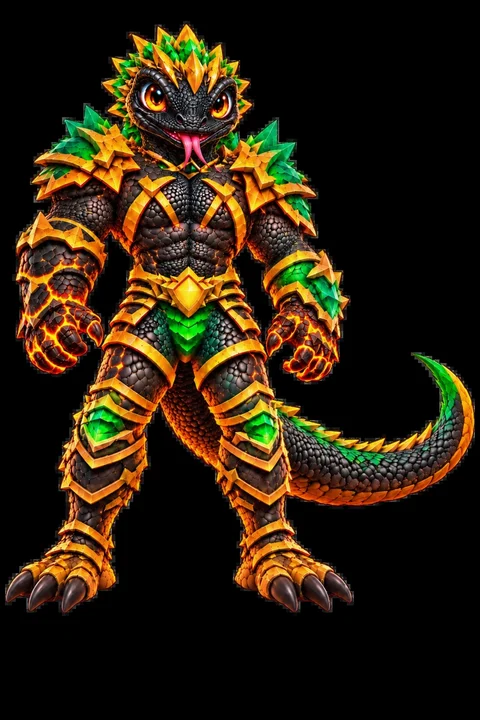
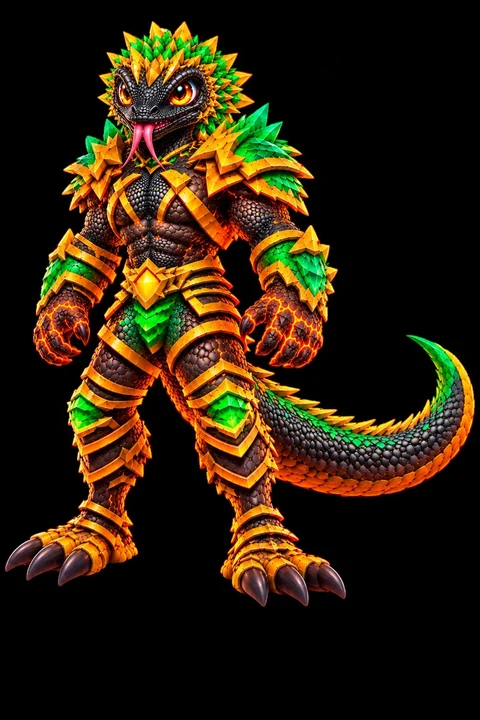
Selección de héroe: los 8 héroes visibles sin desplazamiento en el orden pedido, imágenes nuevas de la galería (Ámbar conserva la suya) y animación sutil de cola, orejas, cabeza y respiración con manos y pies quietos

diff --git a/src/style.css b/src/style.css
@@ -847,25 +847,25 @@ html.touch .bag.show { animation: none; }
 .hs-head { padding: 0 6px 12px; }
 .hs-kicker { font-size: 12px; font-weight: 700; letter-spacing: 4px; color: var(--el); text-shadow: 0 0 14px var(--el); }
 .sel-mission { margin-top: 6px; font-size: 13px; color: #ffd24a; font-weight: 600; letter-spacing: .3px; }
-.hs-grid { flex: 1; min-height: 0; overflow-y: auto; overflow-x: hidden; display: grid; grid-template-columns: repeat(2, minmax(0, 1fr)); gap: 12px; padding: 8px 10px 14px 6px; align-content: start;
+.hs-grid { flex: 1; min-height: 0; overflow: hidden; display: grid; grid-template-columns: repeat(2, minmax(0, 1fr)); grid-template-rows: repeat(4, minmax(0, 1fr)); gap: 10px; padding: 6px 8px 8px 6px; /* los 8 héroes a la vista, sin desplazamiento */
   scrollbar-width: thin; scrollbar-color: rgba(255,255,255,.25) transparent; overscroll-behavior: contain; -webkit-overflow-scrolling: touch; }
 .hs-grid::-webkit-scrollbar { width: 6px; } .hs-grid::-webkit-scrollbar-thumb { background: rgba(255,255,255,.22); border-radius: 3px; }
 .hs-count { padding: 8px 6px 0; font-size: 11px; letter-spacing: 2px; color: #7f93ab; text-transform: uppercase; }
 .hs-count span { color: #dfe9f6; font-weight: 700; }
 
-.hs-card { --cut: 14px; position: relative; display: block; width: 100%; aspect-ratio: 3 / 4; padding: 0; border: 0; cursor: pointer; color: #fff; font: inherit; text-align: left;
+.hs-card { --cut: 14px; position: relative; display: block; width: 100%; height: 100%; min-height: 0; padding: 0; border: 0; cursor: pointer; color: #fff; font: inherit; text-align: left;
   background: linear-gradient(160deg, #1a2234, #070a12); isolation: isolate;
   clip-path: polygon(var(--cut) 0, 100% 0, 100% calc(100% - var(--cut)), calc(100% - var(--cut)) 100%, 0 100%, 0 var(--cut));
-  transition: transform .25s cubic-bezier(.2,.8,.2,1), filter .25s; animation: hsCardIn .5s cubic-bezier(.2,.8,.2,1) both; animation-delay: calc(var(--i) * 45ms); }
+  transition: transform .25s cubic-bezier(.2,.8,.2,1), filter .25s; animation: hsCardIn .5s cubic-bezier(.2,.8,.2,1) backwards; animation-delay: calc(var(--i) * 45ms); }
 @keyframes hsCardIn { from { opacity: 0; transform: translateX(-26px); } to { opacity: 1; transform: none; } }
 /* marco: borde fino que se ilumina con el color del héroe */
 .hs-card::before { content: ''; position: absolute; inset: 0; z-index: 3; pointer-events: none; padding: 1.5px; background: linear-gradient(160deg, rgba(255,255,255,.38), rgba(255,255,255,.06) 40%, rgba(255,255,255,.18));
   -webkit-mask: linear-gradient(#000 0 0) content-box, linear-gradient(#000 0 0); -webkit-mask-composite: xor; mask-composite: exclude; clip-path: inherit; transition: background .25s; }
 .hs-card::after { content: ''; position: absolute; inset: 0; z-index: 1; pointer-events: none; background: radial-gradient(ellipse 90% 60% at 50% 30%, color-mix(in srgb, var(--cel) 28%, transparent), transparent 70%); opacity: .55; transition: opacity .25s; }
 .hs-art { position: absolute; inset: 0; z-index: 0; overflow: hidden; }
-.hs-art img { width: 100%; height: 100%; object-fit: cover; object-position: 50% 4%; transform: scale(1.32); transform-origin: 50% 8%; transition: transform .45s cubic-bezier(.2,.8,.2,1), filter .25s; filter: saturate(.85) brightness(.82); }
+.hs-art img { width: 100%; height: 100%; object-fit: cover; object-position: 50% 6%; transform: scale(1.08); transform-origin: 50% 10%; transition: transform .45s cubic-bezier(.2,.8,.2,1), filter .25s; filter: saturate(.85) brightness(.82); }
 .hs-shine { position: absolute; inset: 0; z-index: 2; pointer-events: none; background: linear-gradient(115deg, transparent 35%, rgba(255,255,255,.22) 48%, transparent 60%); transform: translateX(-120%); }
-.hs-plate { position: absolute; left: 0; right: 0; bottom: 0; z-index: 4; padding: 26px 10px 8px; background: linear-gradient(180deg, transparent, rgba(2,4,9,.92) 55%); display: flex; flex-direction: column; }
+.hs-plate { position: absolute; left: 0; right: 0; bottom: 0; z-index: 4; padding: 20px 10px 7px; background: linear-gradient(180deg, transparent, rgba(2,4,9,.92) 55%); display: flex; flex-direction: column; }
 .hs-plate b { font-size: 17px; font-weight: 800; letter-spacing: 1.5px; text-transform: uppercase; line-height: 1.05; font-style: italic; }
 .hs-plate i { font-style: normal; font-size: 11px; font-weight: 700; color: var(--cel); letter-spacing: .5px; margin-top: 2px; }
 .hs-crown { position: absolute; top: 6px; right: 8px; z-index: 4; font-size: 15px; filter: drop-shadow(0 1px 3px #000); }
@@ -874,16 +874,16 @@ html.touch .bag.show { animation: none; }
 .hs-lock { position: absolute; inset: 0; z-index: 5; display: flex; align-items: center; justify-content: center; font-size: 28px; background: rgba(0,0,0,.5); }
 .hs-card.locked { cursor: not-allowed; filter: grayscale(1) brightness(.6); }
 .hs-card:hover:not(.locked) { transform: translateY(-3px); }
-.hs-card:hover .hs-art img { transform: scale(1.38); filter: saturate(1) brightness(.95); }
+.hs-card:hover .hs-art img { transform: scale(1.14); filter: saturate(1) brightness(.95); }
 .hs-card:hover .hs-shine { transform: translateX(120%); transition: transform .7s ease; }
 .hs-card:hover::before { background: linear-gradient(160deg, var(--cel), rgba(255,255,255,.1) 45%, var(--cel)); }
 .hs-card:focus-visible { outline: none; }
 .hs-card:focus-visible::before { background: #fff; }
 /* seleccionado: borde luminoso del color del héroe */
-.hs-card.sel { transform: translateY(-2px) scale(1.02); filter: drop-shadow(0 0 10px var(--cel)) drop-shadow(0 0 22px color-mix(in srgb, var(--cel) 60%, transparent)); }
+.hs-card.sel { transform: scale(1.02); filter: drop-shadow(0 0 10px var(--cel)) drop-shadow(0 0 22px color-mix(in srgb, var(--cel) 60%, transparent)); }
 .hs-card.sel::before { padding: 2.5px; background: linear-gradient(160deg, #fff, var(--cel) 30%, var(--cel) 70%, #fff); }
 .hs-card.sel::after { opacity: 1; }
-.hs-card.sel .hs-art img { filter: saturate(1.05) brightness(1.02); transform: scale(1.36); }
+.hs-card.sel .hs-art img { filter: saturate(1.05) brightness(1.02); transform: scale(1.12); }
 .hs-card.sel .hs-plate { background: linear-gradient(180deg, transparent, color-mix(in srgb, var(--cel) 35%, rgba(2,4,9,.92)) 60%); }
 
 /* --- ficha --- */
@@ -939,8 +939,8 @@ html.touch .hs-hint { display: none; }
   #select.hs { --gw: clamp(220px, 28vw, 300px); --iw: clamp(240px, 30vw, 320px); }
   .hs-gallery { padding: 10px 8px 8px 12px; }
   .hs-head { padding-bottom: 6px; }
-  .hs-grid { gap: 8px; }
-  .hs-plate { padding: 18px 7px 5px; } .hs-plate b { font-size: 13px; } .hs-plate i { font-size: 9px; }
+  .hs-grid { gap: 6px; padding: 4px; }
+  .hs-plate { padding: 12px 6px 3px; } .hs-plate b { font-size: 13px; } .hs-plate i { font-size: 9px; }
   .hs-count { display: none; }
   .hs-info { padding: 12px 14px 10px 10px; }
   .hs-name { font-size: 34px; }
@@ -950,11 +950,17 @@ html.touch .hs-hint { display: none; }
   .hs-skill { padding: 3px 8px 3px 4px; } .hs-skill .ic { flex-basis: 26px; height: 26px; font-size: 14px; } .hs-skill b { font-size: 12px; }
   .hs-stats { gap: 4px; } .hs-stats .stat { font-size: 10px; }
   .hs-btn { padding: 10px 12px; font-size: 12px; }
-  .hs-actions { padding-top: 10px; }
+  .hs-actions { position: sticky; bottom: 0; padding-top: 8px; margin-top: auto; background: linear-gradient(180deg, transparent, rgba(3,6,12,.95) 35%); }
+  .hs-sec-stats, .hs-stats { display: none; } /* en pantallas bajas: sin estadísticas, para que los botones quepan */
+  .hs-skills { grid-template-columns: repeat(2, minmax(0, 1fr)); gap: 4px; }
+  .hs-skill i { font-size: 8px; letter-spacing: 1px; }
+  .hs-skill b { font-size: 11px; }
+  .hs-rec { font-size: 7px; padding: 1px 4px; top: 4px; left: 5px; letter-spacing: .5px; }
+  .hs-crown { font-size: 11px; top: 3px; right: 4px; }
 }
 /* móvil en vertical: ficha arriba, héroe en el centro, galería en tira abajo y botones al pie */
 @media (orientation: portrait) and (max-width: 720px) {
-  .hs-info { left: 0; right: 0; bottom: auto; width: auto; max-height: 34vh; padding: 12px 14px 8px; background: linear-gradient(180deg, rgba(3,6,12,.92), rgba(3,6,12,.75) 75%, rgba(3,6,12,0)); }
+  .hs-info { left: 0; right: 0; bottom: auto; width: auto; max-height: 30vh; padding: 12px 14px 8px; background: linear-gradient(180deg, rgba(3,6,12,.92), rgba(3,6,12,.75) 75%, rgba(3,6,12,0)); }
   .hs-name { font-size: 36px; margin-top: 6px; }
   .hs-species { font-size: 12px; margin-top: 3px; }
   .hs-bio { font-size: 12.5px; margin: 8px 0 2px; display: -webkit-box; -webkit-line-clamp: 2; -webkit-box-orient: vertical; overflow: hidden; }
@@ -964,14 +970,14 @@ html.touch .hs-hint { display: none; }
   .hs-skill .tx { display: none; }
   .hs-skill .ic { flex-basis: 34px; width: 34px; }
   .hs-actions { position: fixed; left: 10px; right: 10px; bottom: max(10px, env(safe-area-inset-bottom)); padding: 0; margin: 0; }
-  .hs-gallery { top: auto; right: 0; width: auto; height: auto; bottom: calc(max(10px, env(safe-area-inset-bottom)) + 52px); padding: 18px 8px 6px; background: linear-gradient(0deg, rgba(3,6,12,.92), rgba(3,6,12,.7) 70%, rgba(3,6,12,0)); }
+  .hs-gallery { top: auto; right: 0; width: auto; height: auto; bottom: calc(max(10px, env(safe-area-inset-bottom)) + 50px); padding: 14px 8px 4px; background: linear-gradient(0deg, rgba(3,6,12,.92), rgba(3,6,12,.7) 70%, rgba(3,6,12,0)); }
   .hs-head { display: none; }
   .hs-count { display: none; }
-  .hs-grid { display: flex; overflow-x: auto; overflow-y: hidden; gap: 8px; padding: 4px 4px 6px; touch-action: pan-x; }
-  .hs-card { flex: 0 0 84px; width: 84px; --cut: 9px; }
+  .hs-grid { flex: none; grid-template-columns: repeat(4, minmax(0, 1fr)); grid-template-rows: repeat(2, 96px); gap: 6px; padding: 4px 2px 4px; }
+  .hs-card { --cut: 9px; }
   .hs-plate { padding: 14px 6px 4px; } .hs-plate b { font-size: 11px; letter-spacing: .5px; } .hs-plate i { display: none; }
   .hs-rec { font-size: 7px; padding: 1px 4px; top: 4px; left: 5px; }
-  .hs-card.sel { transform: translateY(-4px); }
+  .hs-card.sel { transform: scale(1.03); }
   .hs-crown { font-size: 12px; top: 3px; right: 4px; }
   .hs-hint { display: none; }
 }

diff --git a/src/herostage.js b/src/herostage.js
@@ -247,8 +247,9 @@ export class HeroStage {
       this.yaw = this.baseYaw - 0.9; this.yawV = 0; this.idleT = 0;
     }
   }
-  /* --- VIDA SUTIL: el héroe conserva su pose original (la de reposo de su esqueleto) y solo se mueven la cola y
-     las orejas, con balanceos suaves y pequeñas sacudidas de vez en cuando. Brazos, tronco y cabeza quietos. --- */
+  /* --- VIDA SUTIL: el héroe conserva su pose original (la de reposo de su esqueleto). Se mueven la cola y las
+     orejas (balanceos y pequeñas sacudidas), la cabeza mira o se ladea de vez en cuando y el pecho respira;
+     los brazos apenas acompañan la respiración y manos y pies no se mueven. --- */
   restPose(m) {
     // fuera las animaciones del juego: el esqueleto vuelve a su pose de reposo (la del modelo)
     if (m.mixer) m.mixer.stopAllAction();
@@ -261,8 +262,10 @@ export class HeroStage {
     const ears = { L: chain(/^ear_L_\d+$/), R: chain(/^ear_R_\d+$/) };
     // Ámbar no tiene cola ni orejas: solo las puntas de las alas se mecen muy levemente (como plumas al aire)
     const wings = tail.length || ears.L.length ? { L: [], R: [] } : { L: [B.wing_L_3, B.wing_L_4].filter(Boolean), R: [B.wing_R_3, B.wing_R_4].filter(Boolean) };
-    const all = [...tail, ...ears.L, ...ears.R, ...wings.L, ...wings.R];
-    this.life0 = { tail, ears, wings, q0: all.map((b) => b.quaternion.clone()), all, t: Math.random() * 10,
+    // cabeza (miradas y ladeos suaves), respiración (pecho) y brazos casi quietos
+    const body = { head: B.head, neck: B.neck, chest: B.chest, spine: B.spine, armL: B.upper_arm_L, armR: B.upper_arm_R };
+    const all = [...tail, ...ears.L, ...ears.R, ...wings.L, ...wings.R, ...Object.values(body).filter(Boolean)];
+    this.life0 = { body, look: { y: 0, x: 0, z: 0, ty: 0, tx: 0, tz: 0, t: 1.5 + Math.random() * 2 }, tail, ears, wings, q0: all.map((b) => b.quaternion.clone()), all, t: Math.random() * 10,
       flick: 0, flickT: 2 + Math.random() * 3, flickDir: 1, twitch: { L: 0, R: 0 }, twitchT: 1.5 + Math.random() * 2.5 };
   }
   life(dt) {
@@ -278,15 +281,15 @@ export class HeroStage {
     const n = L.tail.length;
     L.tail.forEach((b, i) => {
       const k = (i + 1) / Math.max(1, n), lag = i * 0.55;
-      const sway = 0.045 * Math.sin(t * 0.9 - lag) * (0.5 + 0.5 * k);
-      const fl = L.flick > 0 ? 0.16 * L.flickDir * Math.sin((1 - L.flick) * Math.PI * 2.2 - lag) * L.flick * (0.4 + 0.6 * k) : 0;
+      const sway = 0.06 * Math.sin(t * 0.9 - lag) * (0.5 + 0.5 * k);
+      const fl = L.flick > 0 ? 0.2 * L.flickDir * Math.sin((1 - L.flick) * Math.PI * 2.2 - lag) * L.flick * (0.4 + 0.6 * k) : 0;
       rotAdd(b, _Y, sway + fl);
       rotAdd(b, _X, 0.02 * Math.sin(t * 0.6 - lag));
     });
     // OREJAS: quietas casi siempre; de vez en cuando una (o las dos) da una sacudida corta hacia atrás
     L.twitchT -= dt;
     if (L.twitchT <= 0) {
-      L.twitchT = 2.2 + Math.random() * 4;
+      L.twitchT = 1.8 + Math.random() * 3.5;
       const r = Math.random();
       if (r < 0.4) L.twitch.L = 1; else if (r < 0.8) L.twitch.R = 1; else { L.twitch.L = 1; L.twitch.R = 0.85; }
     }
@@ -298,8 +301,30 @@ export class HeroStage {
         const k = i === 0 ? 1 : 0.6;
         rotAdd(b, _X, (0.22 * e + 0.012 * Math.sin(t * 1.3 + i)) * k);
         rotAdd(b, _Z, sg * 0.1 * e * k);
+        rotAdd(b, _Y, sg * (0.03 * Math.sin(t * 0.7 + (side === 'L' ? 0 : 2)) + 0.12 * e) * k); // las orejas se orientan un poco
       });
     }
+    // CABEZA: de vez en cuando mira un poco a un lado, ladea la cabeza o vuelve al frente (giros pequeños y lentos)
+    const lk = L.look, bd = L.body;
+    lk.t -= dt;
+    if (lk.t <= 0) {
+      lk.t = 2.2 + Math.random() * 3.5;
+      const r = Math.random();
+      if (r < 0.35) { lk.ty = 0; lk.tx = 0; lk.tz = 0; }                                          // al frente
+      else if (r < 0.75) { lk.ty = (Math.random() < 0.5 ? -1 : 1) * (0.08 + Math.random() * 0.1); lk.tx = (Math.random() - 0.5) * 0.06; lk.tz = 0; } // mira a un lado
+      else { lk.ty = (Math.random() - 0.5) * 0.06; lk.tx = -0.03; lk.tz = (Math.random() < 0.5 ? -1 : 1) * (0.06 + Math.random() * 0.05); } // ladea la cabeza (curiosidad)
+    }
+    const kk = 1 - Math.exp(-dt * 2.2);
+    lk.y += (lk.ty - lk.y) * kk; lk.x += (lk.tx - lk.x) * kk; lk.z += (lk.tz - lk.z) * kk;
+    const breath = Math.sin(t * 1.7);
+    if (bd.neck) { rotAdd(bd.neck, _Y, lk.y * 0.35); rotAdd(bd.neck, _X, lk.x * 0.3); }
+    if (bd.head) { rotAdd(bd.head, _Y, lk.y * 0.65); rotAdd(bd.head, _X, lk.x * 0.7 + 0.008 * breath); rotAdd(bd.head, _Z, lk.z); }
+    // RESPIRACIÓN: el pecho sube y baja muy poco
+    if (bd.chest) rotAdd(bd.chest, _X, -0.012 * breath);
+    if (bd.spine) rotAdd(bd.spine, _X, -0.005 * breath);
+    // BRAZOS: prácticamente quietos (solo acompañan la respiración); manos y pies no se mueven
+    if (bd.armL) rotAdd(bd.armL, _Z, 0.006 * breath);
+    if (bd.armR) rotAdd(bd.armR, _Z, -0.006 * breath);
     // ÁMBAR: las puntas de las alas apenas se mecen
     for (const side of ['L', 'R']) {
       const sg = side === 'L' ? 1 : -1;

diff --git a/src/ui.js b/src/ui.js
@@ -12,7 +12,10 @@ import { hpTier } from './health.js';
 const $ = (id) => document.getElementById(id);
 export const HERO_ICON = { jago: '🐆', kairo: '🦎', lira: '🐈', halley: '🦊', nilo: '🦦', kyra: '❄', ambar: '🦅', voya: '🦁' };
 const fmtH = (id) => `${HERO_SCALE[id].height.toFixed(2).replace('.', ',')} m`;
-export const HERO_ART = (id) => `/img/select/${id}.webp?v=s1`; // ilustración de cuerpo entero para la galería de selección
+export const HERO_ART = (id) => `/img/select/${id}.webp?v=s2`;
+// orden de la galería de selección (de izquierda a derecha y de arriba abajo)
+export const SELECT_ORDER = ['jago', 'lira', 'ambar', 'halley', 'kyra', 'kairo', 'nilo', 'voya'];
+export const selectOrder = () => [...SELECT_ORDER.map((id) => HEROES.findIndex((h) => h.id === id)).filter((i) => i >= 0), ...HEROES.map((h, i) => i).filter((i) => !SELECT_ORDER.includes(HEROES[i].id))]; // ilustración de cuerpo entero para la galería de selección
 export const HERO_FACE = (id) => `/img/heroes/${id}.jpg?v=h30`; // ?v: los retratos nuevos sustituyen a los guardados en caché
 
 const SCREENS = ['loading', 'title', 'missions', 'select', 'team', 'pause', 'how', 'end', 'reveal', 'inventory', 'levelintro'];
@@ -221,13 +224,15 @@ export const ui = {
     this.onPick = onPick;
     const box = $('hero-cards');
     box.innerHTML = '';
-    HEROES.forEach((h, i) => {
+    selectOrder().forEach((i, pos) => {
+      const h = HEROES[i];
       const el = ELEMENTS[h.element];
       const c = document.createElement('button');
+      c.dataset.idx = String(i);
       c.type = 'button';
       c.className = 'hs-card' + (h.locked ? ' locked' : '');
       c.style.setProperty('--cel', el.css);
-      c.style.setProperty('--i', i);
+      c.style.setProperty('--i', pos);
       c.innerHTML = `<span class="hs-art"><img src="${HERO_ART(h.id)}" alt="${h.name}" loading="lazy" decoding="async" /></span><span class="hs-shine"></span>${h.leader ? '<span class="hs-crown">👑</span>' : ''}<span class="hs-plate"><b>${h.name}</b><i>${el.icon} ${el.name}</i></span><span class="hs-rec">★ RECOMENDADO</span>${h.locked ? '<span class="hs-lock">🔒</span>' : ''}`;
       c.addEventListener('click', () => { if (!h.locked) onPick(i); });
       box.appendChild(c);
@@ -239,9 +244,7 @@ export const ui = {
     const h = HEROES[i];
     const el = ELEMENTS[h.element];
     this.setElementColor(el.css);
-    [...$('hero-cards').children].forEach((c, k) => c.classList.toggle('sel', k === i));
-    const cur = $('hero-cards').children[i];
-    if (cur && cur.scrollIntoView) try { cur.scrollIntoView({ block: 'nearest', inline: 'nearest', behavior: 'smooth' }); } catch (e) { /* */ }
+    [...$('hero-cards').children].forEach((c) => c.classList.toggle('sel', Number(c.dataset.idx) === i));
     $('sel-name').textContent = h.name;
     $('sel-species').textContent = h.species;
     $('sel-element').textContent = `${el.icon} ${el.name}`;
@@ -596,8 +599,8 @@ export const ui = {
     });
   },
   markRecommended(mission) {
-    [...$('hero-cards').children].forEach((c, k) => {
-      const h = HEROES[k];
+    [...$('hero-cards').children].forEach((c) => {
+      const h = HEROES[Number(c.dataset.idx)];
       c.classList.toggle('rec', !!mission && mission.best.includes(h.element));
     });
     $('sel-mission').textContent = mission ? `${mission.icon} ${mission.name}` : '';

diff --git a/src/main.js b/src/main.js
@@ -14,7 +14,7 @@ import { Player, ChaseCam } from './player.js';
 import { Input } from './input.js';
 import { FX } from './fx.js';
 import { Game } from './game.js';
-import { ui } from './ui.js';
+import { ui, selectOrder } from './ui.js';
 import { Audio3D as audio } from './audio.js';
 import { clamp, damp } from './utils.js';
 import { LEVELS } from './levels.js';
@@ -617,8 +617,10 @@ function bindUi() {
   $('btn-change2').onclick = () => enterSelect();
   $('btn-menu2').onclick = () => enterTitle();
 
-  input.on('selectPrev', () => mode === 'select' && showHero(selected - 1));
-  input.on('selectNext', () => mode === 'select' && showHero(selected + 1));
+  // ← → recorren a los héroes en el orden de la galería
+  const stepHero = (d) => { const o = selectOrder(), k = o.indexOf(selected); showHero(o[(k + d + o.length) % o.length]); };
+  input.on('selectPrev', () => mode === 'select' && stepHero(-1));
+  input.on('selectNext', () => mode === 'select' && stepHero(1));
   input.on('confirm', () => mode === 'select' && beginMission());
   input.on('mute', toggleSound);
   input.on('power', () => mode === 'playing' && game.state === 'playing' && game.primaryAttack()); // Q / clic: atacar (en el jefe, golpe con el arma)

diff --git a/index.html b/index.html
@@ -84,7 +84,7 @@
         <p id="sel-bio" class="hs-bio"></p>
         <div class="hs-sec">HABILIDADES</div>
         <div id="hs-skills" class="hs-skills"></div>
-        <div class="hs-sec">ESTADÍSTICAS</div>
+        <div class="hs-sec hs-sec-stats">ESTADÍSTICAS</div>
         <div class="stats hs-stats" id="sel-stats"></div>
         <div class="hs-actions">
           <button id="btn-back" class="hs-btn ghost" type="button">← VOLVER</button>
